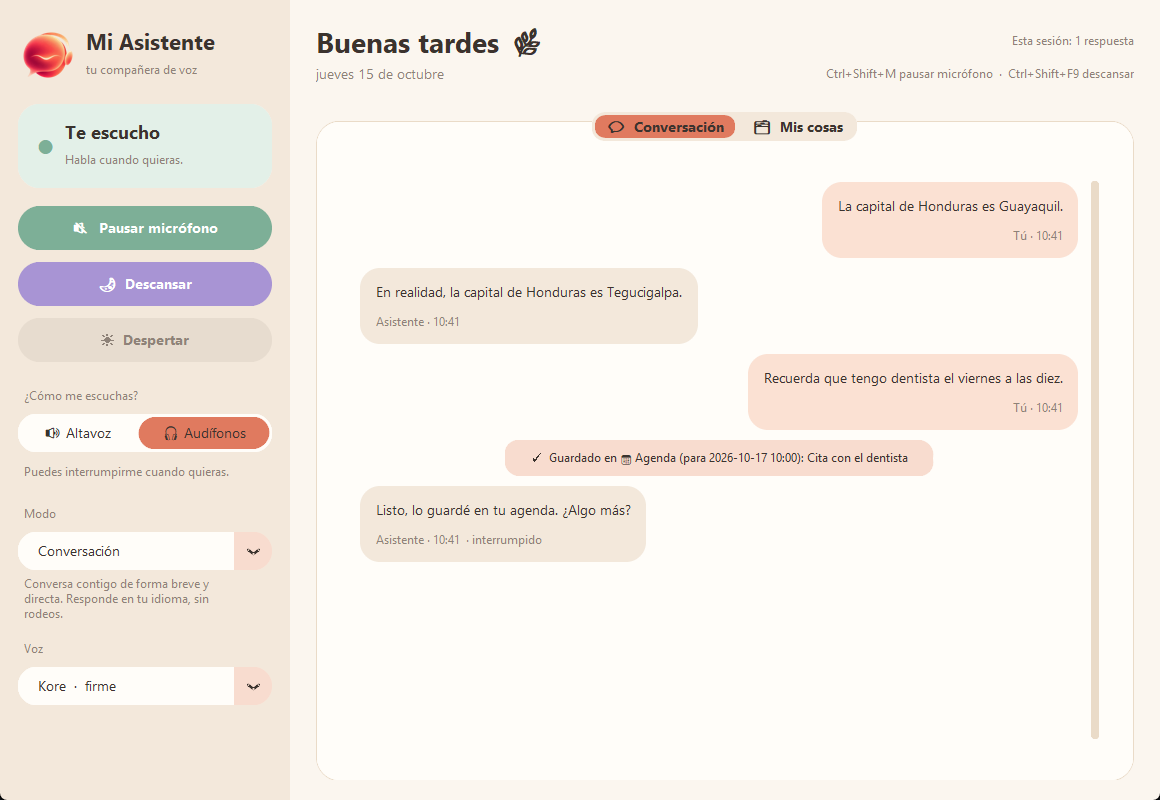
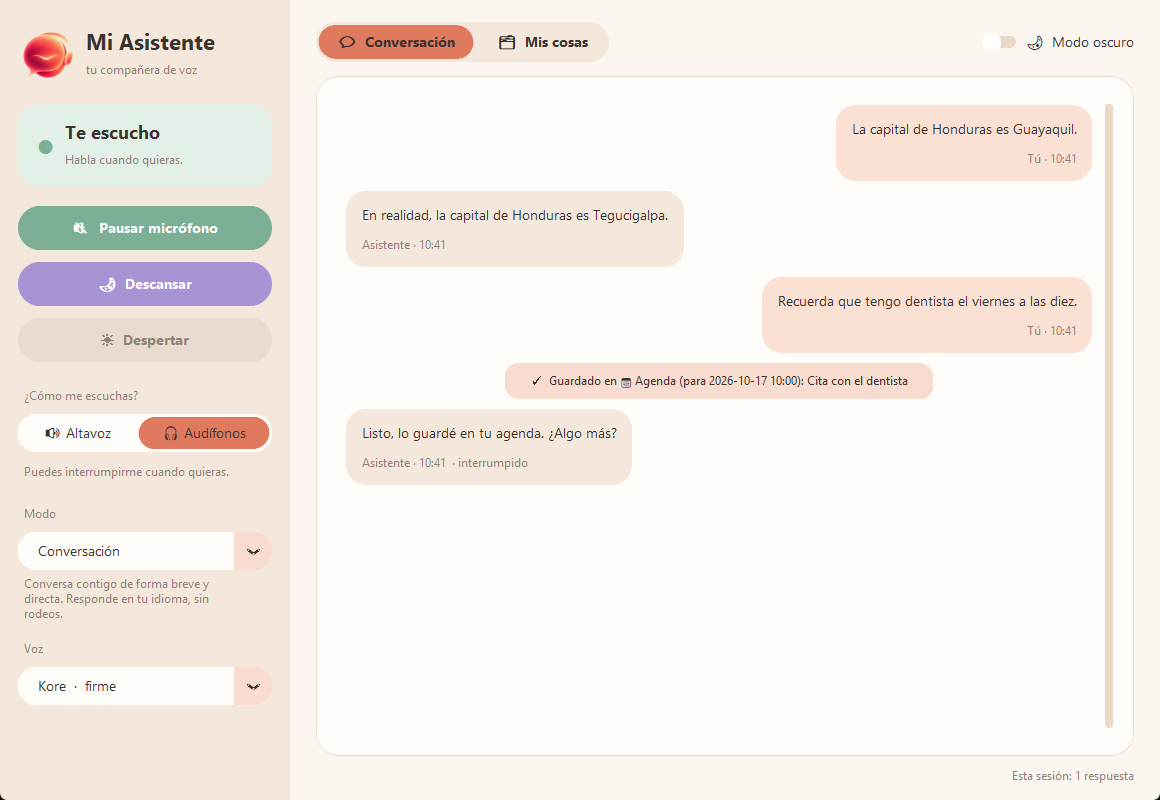
Cleaner window: view buttons, dark-mode switch, status bar, tooltips
- Removed the greeting and date; "Conversación / Mis cosas" are buttons
  at the top, with a remembered light/dark switch on the right
- The session counter moved to a small status bar at the bottom
- Keyboard shortcuts show as tooltips on the mute and sleep buttons
- The window start is retried when Tcl/Tk fails to read its own
  library files (seen occasionally on this PC; it closed the app)
- README screenshots refreshed

diff --git a/voicecompanion/gui.py b/voicecompanion/gui.py
@@ -10,14 +10,16 @@ import asyncio
 import queue
 import sys
 import threading
+import time
 from datetime import datetime
 from pathlib import Path
+import tkinter
 from tkinter import messagebox
 
 import customtkinter as ctk
 
 from . import ui
-from .config import APP_NAME, CATEGORIES, CATEGORY_BY_NAME, VOICES
+from .config import APP_NAME, CATEGORIES, CATEGORY_BY_NAME, VOICES, load_preferences, save_preference
 from .logs import FreezeWatchdog, log
 from .memory import SOURCE_AUTO, SOURCE_MANUAL, MemoryItem, MemoryStore, normalize_due_at
 
@@ -58,10 +60,8 @@ STATES = {
     "error": ("Algo salió mal", "Mira el mensaje de error.", ("#F7E0DF", "#402D2C"), ROSE),
 }
 DAYS = ["lun", "mar", "mié", "jue", "vie", "sáb", "dom"]
-DAYS_LONG = ["lunes", "martes", "miércoles", "jueves", "viernes", "sábado", "domingo"]
 MONTHS = ["ene", "feb", "mar", "abr", "may", "jun", "jul", "ago", "sep", "oct", "nov", "dic"]
-MONTHS_LONG = ["enero", "febrero", "marzo", "abril", "mayo", "junio", "julio", "agosto", "septiembre",
-               "octubre", "noviembre", "diciembre"]
+VIEW_CHAT, VIEW_THINGS = "💬  Conversación", "🗂  Mis cosas"
 SOURCES = {"UserRequest": "lo pediste tú", SOURCE_AUTO: "lo guardé yo", SOURCE_MANUAL: "añadido a mano"}
 MODE_SPEAKER, MODE_HEADSET = "🔊 Altavoz", "🎧 Audífonos"
 MAX_ITEMS_SHOWN = 200
@@ -89,19 +89,59 @@ def format_date(value: str | None, with_weekday: bool = False) -> str:
     return text
 
 
-def greeting(now: datetime | None = None) -> str:
-    hour = (now or datetime.now()).hour
-    if 5 <= hour < 12:
-        return "Buenos días ☀"
-    if 12 <= hour < 20:
-        return "Buenas tardes 🌿"
-    return "Buenas noches 🌙"
+class Tooltip:
+    """A small hint that appears after hovering a widget for a moment (customtkinter has none)."""
+
+    def __init__(self, widget, text: str, delay_ms: int = 450):
+        self.widget, self.text, self.delay_ms = widget, text, delay_ms
+        self._after = None
+        self._tip = None
+        widget.bind("<Enter>", self._schedule, add="+")
+        widget.bind("<Leave>", self._hide, add="+")
+        widget.bind("<ButtonPress>", self._hide, add="+")
+
+    def _schedule(self, _event=None) -> None:
+        self._cancel()
+        self._after = self.widget.after(self.delay_ms, self._show)
+
+    def _cancel(self) -> None:
+        if self._after is not None:
+            self.widget.after_cancel(self._after)
+            self._after = None
+
+    def _show(self) -> None:
+        self._after = None
+        if self._tip is not None or not self.widget.winfo_exists():
+            return
+        x = self.widget.winfo_rootx() + 16
+        y = self.widget.winfo_rooty() + self.widget.winfo_height() + 6
+        dark = ctk.get_appearance_mode() == "Dark"
+        background, foreground = (TEXT[1], CARD[1]) if dark else (TEXT[0], CARD[0])
+        # A plain Tk window: customtkinter's toplevels hide and re-show themselves while setting up on Windows.
+        self._tip = tkinter.Toplevel(self.widget)
+        self._tip.wm_overrideredirect(True)
+        self._tip.wm_attributes("-topmost", True)
+        self._tip.wm_geometry(f"+{x}+{y}")
+        tkinter.Label(self._tip, text=self.text, bg=background, fg=foreground, font=("Segoe UI", 10),
+                      padx=10, pady=5).pack()
+
+    def _hide(self, _event=None) -> None:
+        self._cancel()
+        if self._tip is not None:
+            self._tip.destroy()
+            self._tip = None
+
+
+def initial_theme() -> str:
+    """Light or dark as chosen with the switch, otherwise follow Windows."""
+    theme = load_preferences().get("theme")
+    return theme if theme in ("light", "dark") else "system"
 
 
 class MainWindow(ctk.CTk):
     def __init__(self, app, memory: MemoryStore, events: "queue.Queue", worker: threading.Thread | None,
                  result: dict, watchdog: FreezeWatchdog | None = None):
-        ctk.set_appearance_mode("system")
+        ctk.set_appearance_mode(initial_theme())
         super().__init__(fg_color=CREAM)
         self.app = app
         self.memory = memory
@@ -123,7 +163,6 @@ class MainWindow(ctk.CTk):
         self.minsize(960, 700)
         self.protocol("WM_DELETE_WINDOW", self._on_close)
         family = "Segoe UI"
-        self.font_hello = ctk.CTkFont(family=family, size=28, weight="bold")
         self.font_title = ctk.CTkFont(family=family, size=22, weight="bold")
         self.font_heading = ctk.CTkFont(family=family, size=20, weight="bold")
         self.font_state = ctk.CTkFont(family=family, size=18, weight="bold")
@@ -174,6 +213,12 @@ class MainWindow(ctk.CTk):
         self.sleep_button.grid(row=3, column=0, padx=18, pady=6, sticky="ew")
         self.wake_button = ctk.CTkButton(bar, text="☀  Despertar", command=self.app.wake, **button)
         self.wake_button.grid(row=4, column=0, padx=18, pady=6, sticky="ew")
+        hk = self.app.settings.hotkeys
+        self.tooltips = [
+            Tooltip(self.mute_button, f"Atajo: {hk.mute.title()}"),
+            Tooltip(self.sleep_button, f"Atajo: {hk.sleep.title()} (descansar / despertar)"),
+            Tooltip(self.wake_button, f"Atajo: {hk.sleep.title()} (descansar / despertar)"),
+        ]
 
         self._section_label(bar, "¿Cómo me escuchas?", 5)
         self.mode_switch = ctk.CTkSegmentedButton(
@@ -261,34 +306,54 @@ class MainWindow(ctk.CTk):
 
     def _build_main(self) -> None:
         main = ctk.CTkFrame(self, fg_color=CREAM)
-        main.grid(row=0, column=1, padx=26, pady=(22, 20), sticky="nsew")
+        main.grid(row=0, column=1, padx=26, pady=(22, 10), sticky="nsew")
         main.grid_columnconfigure(0, weight=1)
         main.grid_rowconfigure(1, weight=1)
 
-        head = ctk.CTkFrame(main, fg_color=CREAM)
-        head.grid(row=0, column=0, sticky="ew")
-        head.grid_columnconfigure(1, weight=1)
-        self.hello = ctk.CTkLabel(head, text=greeting(), font=self.font_hello, text_color=TEXT)
-        self.hello.grid(row=0, column=0, sticky="w")
-        now = datetime.now()
-        ctk.CTkLabel(head, text=f"{DAYS_LONG[now.weekday()]} {now.day} de {MONTHS_LONG[now.month - 1]}",
-                     font=self.font_body, text_color=MUTED).grid(row=1, column=0, sticky="w")
-        self.usage_label = ctk.CTkLabel(head, text="", font=self.font_small, text_color=MUTED, justify="right")
-        self.usage_label.grid(row=0, column=1, sticky="e")
-        hk = self.app.settings.hotkeys
-        ctk.CTkLabel(head, text=f"{hk.mute.title()} pausar micrófono  ·  {hk.sleep.title()} descansar",
-                     font=self.font_small, text_color=MUTED).grid(row=1, column=1, sticky="e")
+        # Top bar: the two views on the left, light/dark on the right.
+        top = ctk.CTkFrame(main, fg_color=CREAM)
+        top.grid(row=0, column=0, sticky="ew")
+        top.grid_columnconfigure(1, weight=1)
+        self.view_switch = ctk.CTkSegmentedButton(
+            top, values=[VIEW_CHAT, VIEW_THINGS], command=self.show_view, height=40, corner_radius=20,
+            font=self.font_button, fg_color=SAND, selected_color=TERRACOTTA, selected_hover_color=TERRACOTTA_DARK,
+            unselected_color=SAND, unselected_hover_color=SELECTED, text_color=TEXT)
+        self.view_switch.grid(row=0, column=0, sticky="w")
+        self.theme_switch = ctk.CTkSwitch(
+            top, text="🌙  Modo oscuro", font=self.font_body, text_color=TEXT, command=self._on_theme,
+            progress_color=LAVENDER, button_color=WHITE, button_hover_color=CREAM, fg_color=BORDER)
+        self.theme_switch.grid(row=0, column=2, sticky="e")
+        if ctk.get_appearance_mode() == "Dark":
+            self.theme_switch.select()
 
-        self.tabs = ctk.CTkTabview(
-            main, corner_radius=24, fg_color=CARD, border_width=1, border_color=BORDER,
-            segmented_button_fg_color=SAND, segmented_button_selected_color=TERRACOTTA,
-            segmented_button_selected_hover_color=TERRACOTTA_DARK, segmented_button_unselected_color=SAND,
-            segmented_button_unselected_hover_color=SELECTED, segmented_button_font=self.font_button,
-            text_color=TEXT)
-        self.tabs.grid(row=1, column=0, pady=(14, 0), sticky="nsew")
-        self._build_chat(self.tabs.add("💬  Conversación"))
-        self._build_things(self.tabs.add("🗂  Mis cosas"))
-        self.tabs.set("💬  Conversación")
+        # The current view, in one rounded card.
+        content = ctk.CTkFrame(main, corner_radius=24, fg_color=CARD, border_width=1, border_color=BORDER)
+        content.grid(row=1, column=0, pady=(14, 0), sticky="nsew")
+        content.grid_columnconfigure(0, weight=1)
+        content.grid_rowconfigure(0, weight=1)
+        self.views = {VIEW_CHAT: ctk.CTkFrame(content, fg_color=CARD), VIEW_THINGS: ctk.CTkFrame(content, fg_color=CARD)}
+        self._build_chat(self.views[VIEW_CHAT])
+        self._build_things(self.views[VIEW_THINGS])
+        self.show_view(VIEW_CHAT)
+
+        # Status bar at the bottom, like a spreadsheet's row count.
+        self.usage_label = ctk.CTkLabel(main, text="", font=self.font_small, text_color=MUTED)
+        self.usage_label.grid(row=2, column=0, pady=(6, 0), sticky="e")
+
+    def show_view(self, name: str) -> None:
+        """Show 'Conversación' or 'Mis cosas'."""
+        for key, frame in self.views.items():
+            if key == name:
+                frame.grid(row=0, column=0, padx=10, pady=12, sticky="nsew")
+            else:
+                frame.grid_remove()
+        if self.view_switch.get() != name:
+            self.view_switch.set(name)
+
+    def _on_theme(self) -> None:
+        mode = "dark" if self.theme_switch.get() else "light"
+        ctk.set_appearance_mode(mode)
+        save_preference("theme", mode)
 
     def _scroll_frame(self, parent, **kwargs) -> ctk.CTkScrollableFrame:
         # Explicit colors everywhere: "transparent" inside scrollable frames keeps the old colors
@@ -552,7 +617,9 @@ class MainWindow(ctk.CTk):
         voice_label = self._voice_label(self.app.settings.voice)
         if self.voice_menu.get() != voice_label:
             self.voice_menu.set(voice_label)
-        self._set(self.hello, "hello", text=greeting())
+        dark = ctk.get_appearance_mode() == "Dark"  # follows Windows when no choice was saved
+        if bool(self.theme_switch.get()) != dark:
+            (self.theme_switch.select if dark else self.theme_switch.deselect)()
 
         responses = self.app.usage.totals.responses
         self._set(self.usage_label, "usage", text=f"Esta sesión: {responses} respuesta{'' if responses == 1 else 's'}")
@@ -575,6 +642,20 @@ class MainWindow(ctk.CTk):
             self.destroy()
         else:
             self.after(100, lambda: self._wait_for_worker(tries - 1))
+
+
+def open_main_window(*args, attempts: int = 3) -> MainWindow:
+    """Create the window, retrying a couple of times: on this PC Tcl/Tk occasionally fails to read its own
+    library files while starting ("couldn't read file …init.tcl / en.msg"), which used to close the app silently."""
+    for attempt in range(1, attempts + 1):
+        try:
+            return MainWindow(*args)
+        except tkinter.TclError as exc:
+            log.warning("Window failed to start (attempt %d of %d): %s", attempt, attempts, exc)
+            if attempt == attempts or "display" in str(exc).lower():
+                raise
+            time.sleep(0.3)
+    raise AssertionError("unreachable")
 
 
 def run_gui(app, memory: MemoryStore) -> int:
@@ -600,7 +681,7 @@ def run_gui(app, memory: MemoryStore) -> int:
     worker = threading.Thread(target=conversation, name="conversation", daemon=True)
     worker.start()
     watchdog = FreezeWatchdog()
-    window = MainWindow(app, memory, events, worker, result, watchdog)
+    window = open_main_window(app, memory, events, worker, result, watchdog)
     watchdog.start()
     window.mainloop()
     watchdog.stop()

diff --git a/tests/test_window_health.py b/tests/test_window_health.py
@@ -86,6 +86,67 @@ def test_listener_modes_show_only_the_assistants_notes(tmp_path):
         app.memory.close()
 
 
+def test_top_bar_views_theme_switch_and_status_bar(tmp_path):
+    import customtkinter as ctk
+
+    from voicecompanion.config import load_preferences
+    from voicecompanion.gui import VIEW_CHAT, VIEW_THINGS
+
+    app, window = _window(tmp_path, "Default")
+    try:
+        window._tick()
+        assert window.views[VIEW_CHAT].winfo_manager() == "grid"
+        assert window.views[VIEW_THINGS].winfo_manager() == ""
+        window.show_view(VIEW_THINGS)  # the "Mis cosas" button
+        assert window.views[VIEW_THINGS].winfo_manager() == "grid" and window.views[VIEW_CHAT].winfo_manager() == ""
+
+        window.theme_switch.select()
+        window._on_theme()
+        assert ctk.get_appearance_mode() == "Dark" and load_preferences()["theme"] == "dark"
+        window.theme_switch.deselect()
+        window._on_theme()
+        assert ctk.get_appearance_mode() == "Light" and load_preferences()["theme"] == "light"
+
+        app.usage.add(text_input=10)
+        window._tick()
+        assert window.usage_label.cget("text") == "Esta sesión: 1 respuesta"
+        assert int(window.usage_label.grid_info()["row"]) == 2  # bottom status bar, below the content
+
+        tips = {tip.widget: tip.text for tip in window.tooltips}
+        assert tips[window.mute_button] == "Atajo: Ctrl+Shift+M"
+        assert "Ctrl+Shift+F9" in tips[window.sleep_button]
+        window.tooltips[0]._show()
+        assert window.tooltips[0]._tip is not None
+        window.tooltips[0]._hide()
+        assert window.tooltips[0]._tip is None
+    finally:
+        window.closing = True
+        window.destroy()
+        app.memory.close()
+
+
+def test_window_start_is_retried_after_a_tcl_read_error(monkeypatch):
+    import tkinter
+
+    from voicecompanion import gui
+
+    attempts = []
+
+    def flaky_window(*args):
+        attempts.append(args)
+        if len(attempts) < 3:
+            raise tkinter.TclError('couldn\'t read file ".../tk8.6/msgs/en.msg": no such file or directory')
+        return "window"
+
+    monkeypatch.setattr(gui, "MainWindow", flaky_window)
+    monkeypatch.setattr(gui.time, "sleep", lambda s: None)
+    assert gui.open_main_window("app") == "window" and len(attempts) == 3
+    attempts.clear()
+    monkeypatch.setattr(gui, "MainWindow", lambda *a: (_ for _ in ()).throw(tkinter.TclError("still broken")))
+    with pytest.raises(tkinter.TclError):
+        gui.open_main_window("app")  # gives up after 3 tries and reports it
+
+
 def test_window_keeps_refreshing_after_an_error(tmp_path, monkeypatch):
     app, window = _window(tmp_path, "Default")
     try:

diff --git a/tests/test_folders_and_sleep.py b/tests/test_folders_and_sleep.py
@@ -206,24 +206,21 @@ def _texts(widget):
 def test_window_builds_and_shows_saved_things(tmp_path, monkeypatch):
     pytest.importorskip("customtkinter")
     import queue
-    from datetime import datetime
 
     from conftest import open_window
 
     from voicecompanion import config
     from voicecompanion.app import VoiceCompanionApp
-    from voicecompanion.gui import MODE_HEADSET, MODE_SPEAKER, format_date, greeting
+    from voicecompanion.gui import MODE_HEADSET, MODE_SPEAKER, format_date
 
     monkeypatch.setattr(config, "PREFERENCES_PATH", tmp_path / "preferences.json")
     assert format_date("2026-10-16T10:00", with_weekday=True) == "vie 16 oct 10:00"
-    assert greeting(datetime(2026, 1, 1, 9)).startswith("Buenos días")
-    assert greeting(datetime(2026, 1, 1, 23)).startswith("Buenas noches")
     settings = load_settings()
     profiles = load_profiles()
     memory = MemoryStore(tmp_path / "m.db")
     memory.save("Music", "Bohemian Rhapsody - Queen", "Default", "UserRequest")
     app = VoiceCompanionApp(settings, "key", profiles, profiles["Default"], memory)
-    window = open_window(app, memory, queue.Queue(), None, {})
+    window = open_window(app, memory, queue.Queue(), None, {})  # retries rare Tcl startup read errors
     try:
         window.update()
         window._select_folder("Music")

diff --git a/tests/conftest.py b/tests/conftest.py
@@ -18,15 +18,12 @@ def open_window(*args):
     """Create the app window, skipping only when there is really no screen (any other Tk error fails the test)."""
     import tkinter
 
-    from voicecompanion.gui import MainWindow
+    from voicecompanion.gui import open_main_window
 
-    for attempt in range(3):
-        try:
-            return MainWindow(*args)
-        except tkinter.TclError as exc:
-            if "display" in str(exc).lower():
-                pytest.skip("no display")
-            # Creating many Tk windows in one test process sometimes fails to read Tcl's init.tcl on Windows
-            # ("couldn't read file ... No error"); the app itself only ever creates one window.
-            if "init.tcl" not in str(exc) or attempt == 2:
-                raise
+    try:
+        # Retries the occasional Tcl/Tk library-read failure on startup, like the app does.
+        return open_main_window(*args, attempts=5)
+    except tkinter.TclError as exc:
+        if "display" in str(exc).lower():
+            pytest.skip("no display")
+        raise

diff --git a/README.md b/README.md
@@ -12,9 +12,11 @@ It's also a patient conversation partner for learning **English, Spanish, Portug
 
 *Built with Python, asyncio, the Gemini Live API (google-genai) / OpenAI Realtime API, sounddevice + numpy, SQLite, customtkinter, and pytest (103 offline tests, including scripted server-event flows).*
 
-- **The "Mi Asistente" window:** a calm, warm design that follows Windows light or dark mode. It has:
+- **The "Mi Asistente" window:** a calm, warm design. It follows Windows light or dark mode until you pick one with the **🌙 Modo oscuro** switch (top right). It has:
+  - **Conversación / Mis cosas** buttons at the top;
   - a status card (Te escucho / Hablando / Micrófono en pausa / Descansando);
-  - **Pausar micrófono**, **Descansar** and **Despertar** buttons;
+  - **Pausar micrófono**, **Descansar** and **Despertar** buttons, which show their keyboard shortcut when you hover over them;
+  - a session counter in a small status bar at the bottom;
   - an **Altavoz / Audífonos** switch;
   - a personality (profile) selector;
   - the conversation as chat bubbles;
@@ -117,7 +119,9 @@ Set `auto_sleep_minutes` in `settings.yaml` (e.g. 10) to make it fall asleep by 
 - `Ctrl+Shift+X`: quit.
 - In `--console` mode you can also press `m`, `s` or `q` in the terminal, or `Ctrl+C`.
 
-The window shows the session's token usage. When you quit, it is also stored in the `SessionLog` table.
+The status bar at the bottom of the window counts the session's responses. When you quit, the session's token usage is stored in the `SessionLog` table.
+
+In the listener modes, the conversation view shows only the assistant's notes (corrections, counterpoints, facts), not every sentence spoken in the meeting.
 
 ## 4. Gemini vs OpenAI
 
@@ -285,4 +289,7 @@ tests/                          offline pytest tests
 - **Background noise triggers it**: on Gemini set `start_sensitivity: low`; on OpenAI raise `threshold` (e.g. 0.7). Or mute with the hotkey.
 - **Global hotkeys don't work**: some apps running as administrator block them. Use the buttons in the window instead.
 - **The window doesn't open from `Mi Asistente.bat`**: run `python main.py --console` in PowerShell to see the error message.
+- **Something went wrong while it was running**: look in the `logs` folder:
+  - `logs/mi-asistente.log` has every message and error. When you start from the shortcut there's no console, so this is where errors go.
+  - `logs/freezes.log` appears only if the window stops responding for more than 5 seconds. It records what every part of the app was doing at that moment.
 - **Mic is silent in `--test-audio`**: open Windows Settings → Privacy & security → Microphone, and allow desktop apps.
